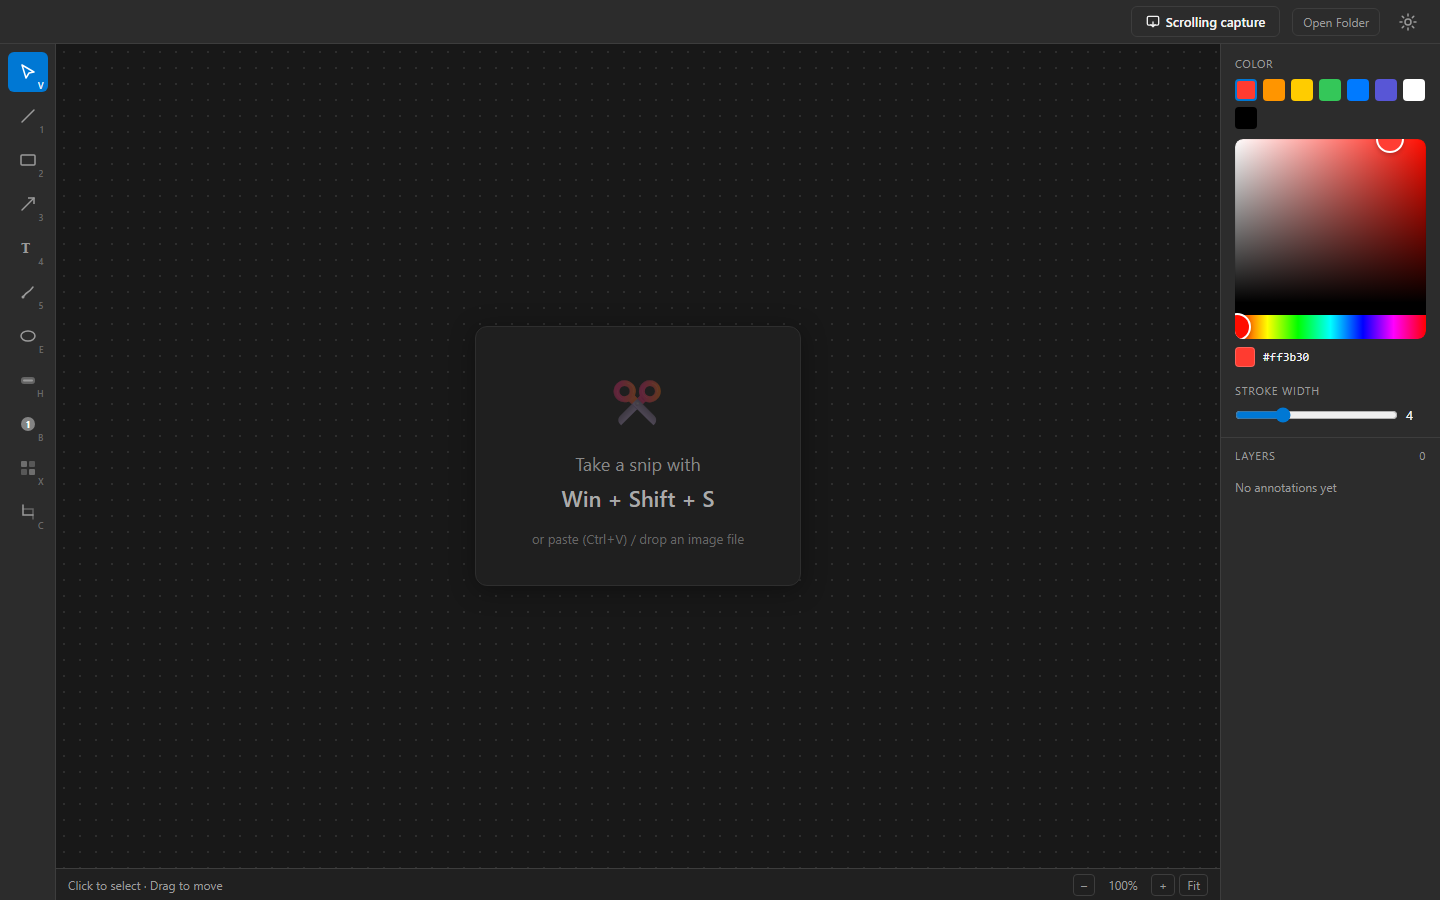
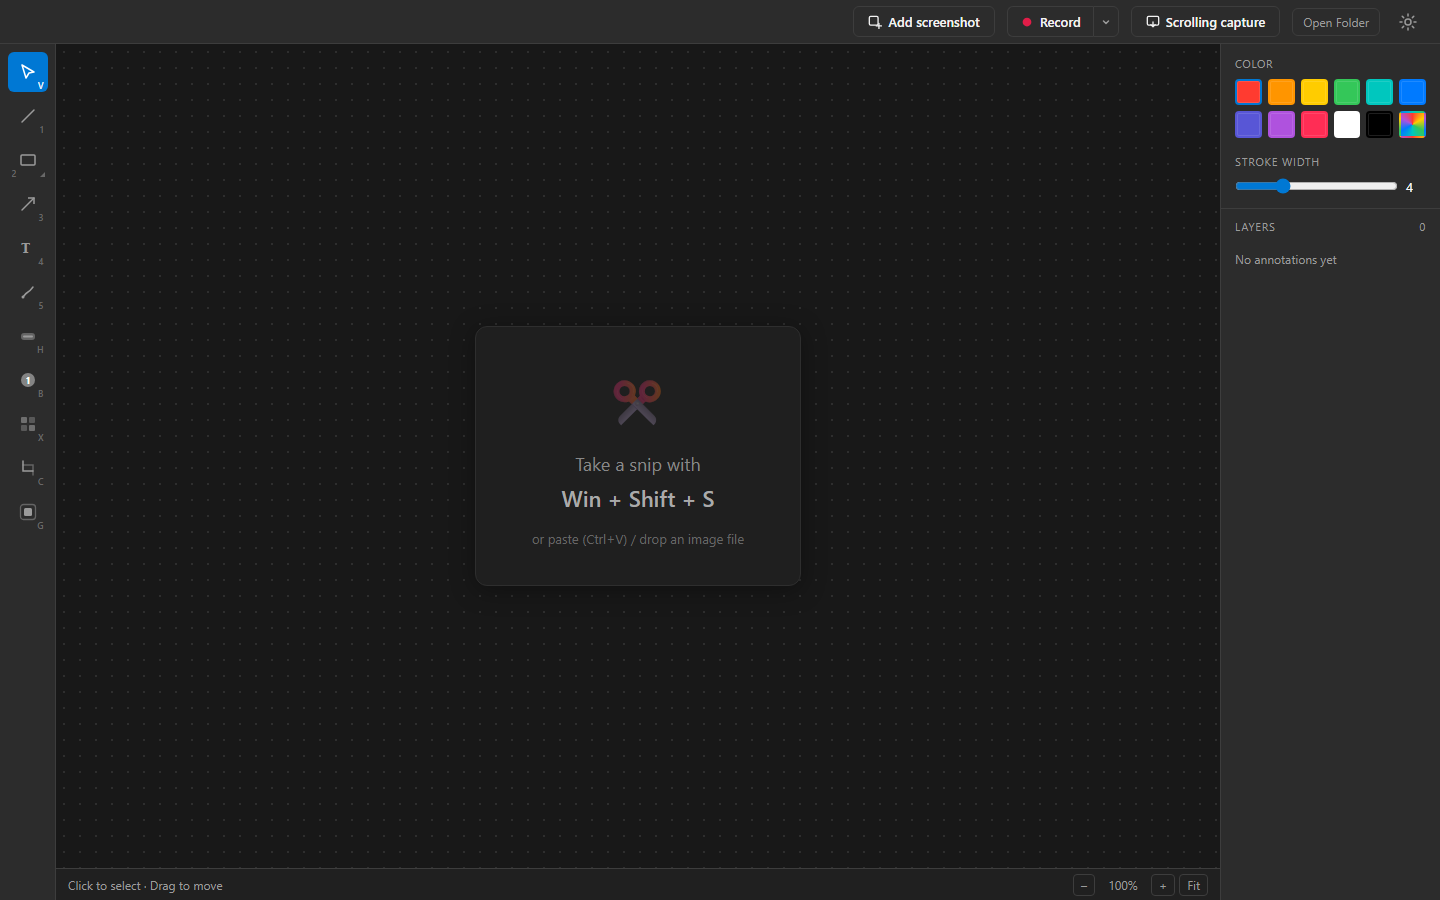
docs: cover recording and Beautify, refresh screenshots

diff --git a/README.md b/README.md
@@ -8,6 +8,8 @@
 
 snippr sits in your system tray and watches the clipboard. The moment the native Snipping Tool captures a screenshot, the snippr editor pops up with it loaded — draw arrows, boxes, text, badges, blur out secrets, then put the result back on the clipboard or save it as a PNG. No capture UI of its own, no replacing what Windows already does well.
 
+Beyond annotating snips, it also does the captures Windows can't: **scrolling capture** for long pages, **screen recording** to MP4/GIF, and a **Beautify** backdrop for polished, shareable shots.
+
 ![snippr editor with annotations](docs/editor.png)
 
 ## How it works
@@ -23,7 +25,10 @@ Ordinary copied images don't trigger the editor — snippr checks that the clipb
 - **Annotation tools** — line, rectangle, ellipse, triangle, diamond, star, arrow, freehand pen, highlighter, text, auto-numbered step badges (numbers editable in the properties panel)
 - **Photoshop-style tool flyout** — hold or right-click the shape button to pick its variants; the button remembers your last choice (the corner caret marks grouped tools)
 - **Color presets** — the usual palette one click away; the last swatch unfolds the full picker with a hex input
+- **Beautify backdrop** — wrap a screenshot in padding, a gradient/solid background, rounded corners, a drop shadow and a macOS/browser window frame; non-destructive, baked only on export (see below)
+- **Screen recording** — record a region to **MP4** or **GIF** at 10/20/30 fps, with the cursor captured and a live outline around the recorded area (see below)
 - **Scrolling capture** — grab an entire scrollable page as one tall image (see below)
+- **Add screenshot** — grab any screen region and drop it straight into the current document (or a new tab if nothing's open)
 - **Open existing images** — paste (`Ctrl+V`) or drag files in; with nothing open the image becomes the tab's background, with a document open it lands as a movable **image layer** on top
 - **Pixelate** — drag a region to censor API keys, emails, faces
 - **Crop** — non-destructive; adjust or remove it any time before export
@@ -51,6 +56,27 @@ Each row renders a miniature of the actual shape — its real geometry and color
 </tr>
 </table>
 
+## Beautify
+
+Turn a bare screenshot into something worth posting. The **Backdrop** tool (`G`, or the shield icon in the tool rail) wraps the image in a padded, colored background with rounded corners and a soft shadow — optionally inside a macOS or browser window frame.
+
+![Beautify backdrop](docs/beautify.png)
+
+Everything is driven from the **Backdrop** panel: a background preset grid (gradients or solids), padding and corner-radius sliders, the window frame (None / macOS / Browser), a drop-shadow toggle, and an aspect ratio (Auto / 1:1 / 16:9 / 4:3) that pads the short side to hit the target shape.
+
+It's **non-destructive**, exactly like Crop — the backdrop lives in document state, survives undo/redo and tab switches, and is only baked into the pixels on **Copy** / **Save** (at native resolution, with your annotations on top). Annotations stay glued to the screenshot, not the backdrop. (Backdrop and Crop are mutually exclusive for now.)
+
+## Screen recording
+
+Record a slice of your screen to a video file — the capture Windows' tool doesn't do at all:
+
+1. Pick a format from the **Record** dropdown (caret next to the button): **MP4** or **GIF**, at **10 / 20 / 30 fps**
+2. Click **Record** and **drag a rectangle** over the area to capture
+3. A small toolbar appears with an elapsed timer; a red outline frames exactly what's being recorded
+4. Click **Stop** (or press `Esc`) to save, or **discard** to throw it away
+
+The mouse cursor is captured in the video. Files land in your save directory as `snippr_rec_<timestamp>.mp4`; choosing **GIF** writes the `.gif` *and* keeps the MP4. Recordings stop themselves after 10 minutes.
+
 ## Scrolling capture
 
 For content taller than the screen — long pages, chat logs, code files — snippr can capture the whole thing as a single image (the one capture the native Snipping Tool can't do):
@@ -72,7 +98,7 @@ Frames are joined by matching pixel rows between captures, ignoring the side mar
 |-----|--------|
 | `1` `2` `3` `4` `5` | Line, Rectangle, Arrow, Text, Pen |
 | `V` | Select / move |
-| `E` `H` `B` `X` `C` | Ellipse, Highlighter, Badge, Pixelate, Crop |
+| `E` `H` `B` `X` `C` `G` | Ellipse, Highlighter, Badge, Pixelate, Crop, Backdrop |
 | `Ctrl+C` / `Ctrl+Enter` | Copy annotated image to clipboard |
 | `Ctrl+V` | Paste an image — new tab, or image layer when a doc is open |
 | `Ctrl+S` | Save As… |
@@ -118,9 +144,11 @@ The installer is unsigned — SmartScreen will warn on first run (`More info →
 ## Architecture
 
 - **Backend (Rust / Tauri 2):** a Win32 message-only window registered with `AddClipboardFormatListener` watches the clipboard. New images are attributed via `GetClipboardOwner` → process name (`ScreenClippingHost.exe` / `SnippingTool.exe`), debounced (the Snipping Tool writes the clipboard once per format), PNG-encoded, and handed to the frontend over raw binary IPC. Exports flow back the same way; a feedback-loop guard keeps snippr's own clipboard writes from re-triggering the watcher.
-- **Scrolling capture:** a transparent always-on-top overlay window hosts the region selector; a Rust thread then drives the target with `SendInput` mouse-wheel events, grabs frames via GDI `BitBlt`, and stitches them with a row-matching algorithm ported from [ShareX](https://github.com/ShareX/ShareX)'s scrolling capture (side margins ignored, sticky footers deduplicated, stop on two identical frames). `Esc` is a thread-level `RegisterHotKey`. The stitcher is covered by unit tests against synthetic scroll sequences.
-- **Frontend (React 19 + Konva):** the screenshot is the bottom layer of a Konva stage; annotations are plain data rendered declaratively, with snapshot-based undo/redo in a zustand store. Export resets the stage transform and rasterizes at native resolution.
+- **Region overlays:** scrolling capture, "add screenshot", and recording all share one transparent always-on-top overlay (one window per monitor for mixed-DPI correctness) that hosts the region selector and reports which mode it's in.
+- **Scrolling capture:** a Rust thread drives the target with `SendInput` mouse-wheel events, grabs frames via GDI `BitBlt`, and stitches them with a row-matching algorithm ported from [ShareX](https://github.com/ShareX/ShareX)'s scrolling capture (side margins ignored, sticky footers deduplicated, stop on two identical frames). `Esc` is a thread-level `RegisterHotKey`. The stitcher is covered by unit tests against synthetic scroll sequences.
+- **Screen recording:** a recorder thread captures the region via GDI `BitBlt` (compositing the cursor with `DrawIconEx`) and encodes H.264 to MP4 through a Media Foundation `SinkWriter`, paced to constant frame rate by wall-clock index so stalls drop frames instead of slowing playback. GIF output is a second pass: the finished MP4 is decoded with an MF `SourceReader` and re-encoded via the `gif` crate. Frames are fed top-down with a positive stride — the encoder MFT ignores the stride-sign hint, so that orientation is verified against a real decoder, not a self-consistent MF round-trip.
+- **Frontend (React 19 + Konva):** the screenshot is the bottom layer of a Konva stage; annotations are plain data rendered declaratively, with snapshot-based undo/redo in a zustand store. The non-destructive **crop** and **Beautify backdrop** are document state (parked per tab, in undo history), composed only at export. Export resets the stage transform and rasterizes at native resolution.
 
 ### README screenshots
 
-The screenshots above are generated from the web build: `npm run dev`, then open `http://localhost:1420/?demo=1` (dev-only demo mode that loads a synthetic screenshot plus sample annotations).
+The screenshots above are generated from the web build: `npm run dev`, then open `http://localhost:1420/?demo=1` (dev-only demo mode that loads a synthetic screenshot plus sample annotations). Add `&backdrop=1` to show the Beautify backdrop (used for `docs/beautify.png`).
